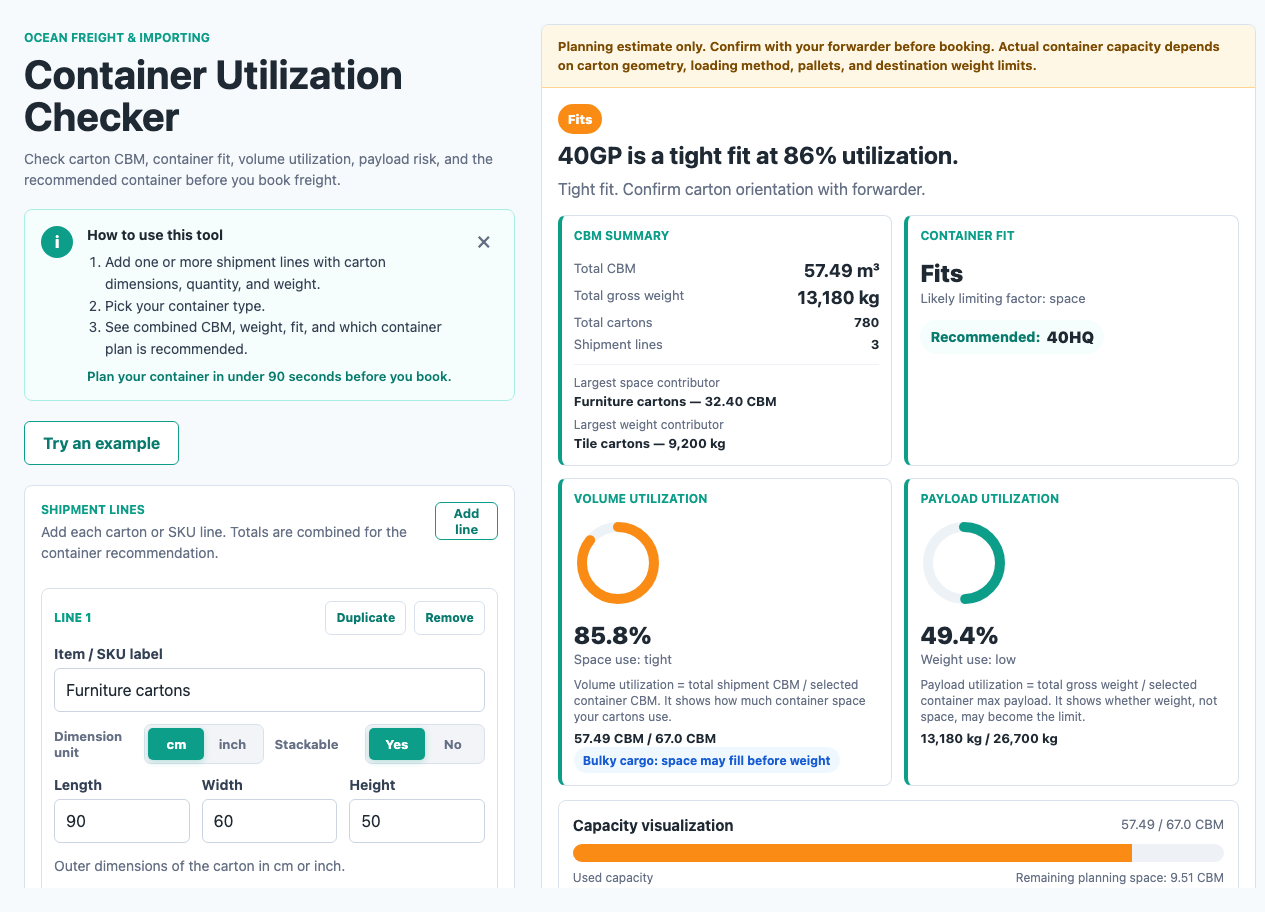
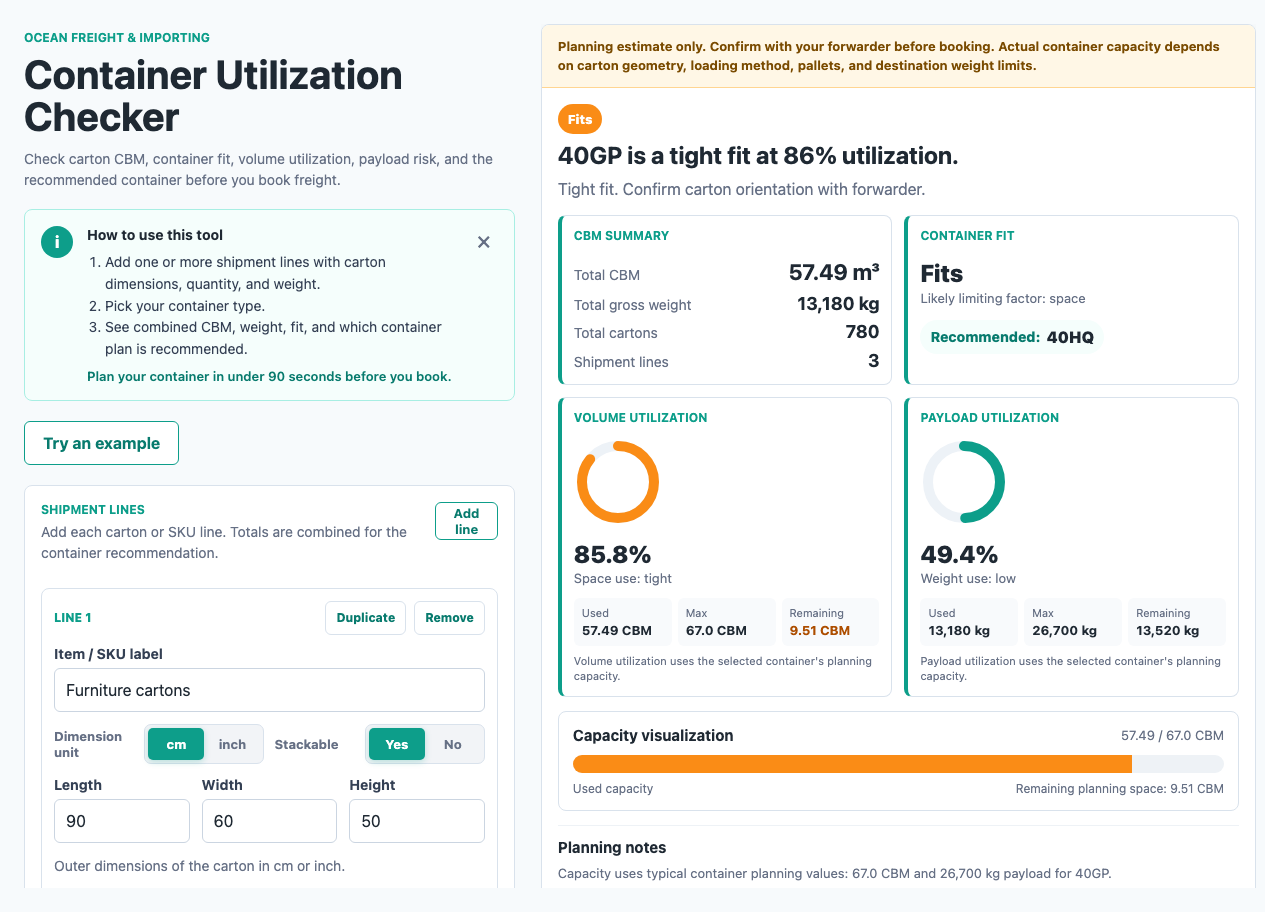
Polish v0.3 review dashboard

Changed region(s): [[0.4316, 0.2763, 0.9866, 0.9825], [0.6166, 0.2763, 0.7091, 0.3991], [0.7091, 0.4298, 0.8324, 0.4912]]

diff --git a/code/app.js b/code/app.js
@@ -10,7 +10,7 @@
   var ORDERED_CONTAINERS = ["20GP", "40GP", "40HQ"];
   var RULE_PRIORITY = ["R13", "R7", "R11", "R6", "R10", "R14", "R8", "R9", "R1", "R2", "R12", "R3", "R5", "R4"];
   var RULE_MESSAGES = {
-    R1: "Shipment is small for FCL. LCL is often cheaper — ask your forwarder.",
+    R1: "Likely LCL candidate: under 13 CBM and 3,500 kg. Ask your forwarder to compare LCL vs FCL.",
     R2: "Container is oversized. Consolidate or downsize.",
     R3: "Under-utilized. Consider smaller container or add SKUs.",
     R4: "Healthy planning range.",
@@ -410,10 +410,10 @@
 
     if (visibleRules.indexOf("R1") >= 0) {
       return {
-        badge: "Small Shipment",
+        badge: "LCL Candidate",
         tone: "warning",
-        headline: "Small shipment for FCL.",
-        action: "Small shipment — LCL likely cheaper."
+        headline: "Likely LCL candidate for FCL.",
+        action: "Under 13 CBM and 3,500 kg — LCL may be cheaper than booking a full container."
       };
     }
 
@@ -555,20 +555,34 @@
     ].join("");
   }
 
+  function renderCapacityFigures(kind, used, max, unit, tone) {
+    var remaining = Math.max(max - used, 0);
+    var usedText = unit === "kg" ? fmtInt(used) : fmt(used, 2);
+    var maxText = unit === "kg" ? fmtInt(max) : fmt(max, 1);
+    var remainingText = unit === "kg" ? fmtInt(remaining) : fmt(remaining, 2);
+    return [
+      '<div class="capacity-figures">',
+      '<div><span>Used</span><strong>' + usedText + " " + unit + "</strong></div>",
+      '<div><span>Max</span><strong>' + maxText + " " + unit + "</strong></div>",
+      '<div><span>Remaining</span><strong class="' + tone + '">' + remainingText + " " + unit + "</strong></div>",
+      "</div>",
+      '<p class="capacity-note">' + escapeHtml(kind) + " utilization uses the selected container's planning capacity.</p>"
+    ].join("");
+  }
+
   function renderMetricGrid(metrics, utilizationSuppressed) {
     var fitStatus = metrics.verdict.badge;
     var rec = metrics.targetRecommendedContainer || metrics.recommendedContainer || "Split shipment";
-    var tags = metrics.sanityTags.slice(0, 2).map(tagMarkup).join("");
     var recommendedMarkup = '<div class="recommendation-chip"><span>Recommended:</span><strong>' + escapeHtml(rec) + "</strong></div>";
     var limitingFactor = metrics.payloadUtil > metrics.volumeUtil ? "weight" : "space";
-    var volumeFormula = '<div class="utilization-copy"><span>Volume utilization = total shipment CBM / selected container CBM. It shows how much container space your cartons use.</span><strong>' + fmt(metrics.totalCbm, 2) + " CBM / " + fmt(metrics.container.volume, 1) + " CBM</strong></div>";
-    var payloadFormula = '<div class="utilization-copy"><span>Payload utilization = total gross weight / selected container max payload. It shows whether weight, not space, may become the limit.</span><strong>' + fmtInt(metrics.totalWeightKg) + " kg / " + fmtInt(metrics.container.payload) + " kg</strong></div>";
+    var volumeTone = metrics.volumeBand === "over" || metrics.volumeBand === "critical" ? "error" : metrics.volumeBand === "tight" ? "warning" : "";
+    var payloadTone = metrics.payloadBand === "over" || metrics.payloadBand === "critical" ? "error" : metrics.payloadBand === "tight" ? "warning" : "";
     return [
       '<section class="metric-grid" aria-label="Container result metrics">',
-      '<div class="metric-card summary-card"><div class="metric-head"><p class="metric-label">CBM Summary</p></div><div class="summary-stack primary-summary"><div><span>Total CBM</span><strong>' + fmt(metrics.totalCbm, 2) + ' m³</strong></div><div><span>Total gross weight</span><strong>' + fmtInt(metrics.totalWeightKg) + ' kg</strong></div><div><span>Total cartons</span><strong>' + fmtInt(metrics.totalCartons) + '</strong></div><div><span>Shipment lines</span><strong>' + fmtInt(metrics.lineCount) + "</strong></div></div>" + renderContributorInsights(metrics) + "</div>",
+      '<div class="metric-card summary-card"><div class="metric-head"><p class="metric-label">CBM Summary</p></div><div class="summary-stack primary-summary"><div><span>Total CBM</span><strong>' + fmt(metrics.totalCbm, 2) + ' m³</strong></div><div><span>Total gross weight</span><strong>' + fmtInt(metrics.totalWeightKg) + ' kg</strong></div><div><span>Total cartons</span><strong>' + fmtInt(metrics.totalCartons) + '</strong></div><div><span>Shipment lines</span><strong>' + fmtInt(metrics.lineCount) + "</strong></div></div></div>",
       '<div class="metric-card"><div class="metric-head"><p class="metric-label">Container Fit</p></div><div class="metric-value">' + escapeHtml(fitStatus) + '</div><div class="metric-sub">Likely limiting factor: ' + escapeHtml(limitingFactor) + "</div>" + recommendedMarkup + "</div>",
-      '<div class="metric-card"><div class="metric-head"><p class="metric-label">Volume Utilization</p></div>' + (utilizationSuppressed ? '<div class="metric-value">Blocked</div><div class="metric-sub">Dimension overflow</div>' : meterSvg(metrics.volumeUtil, metrics.volumeBand, "Volume utilization") + '<div class="metric-value">' + fmt(metrics.volumeUtil, 1) + '%</div><div class="metric-sub">Space use: ' + escapeHtml(metrics.volumeBand) + "</div>" + volumeFormula) + tags + "</div>",
-      '<div class="metric-card"><div class="metric-head"><p class="metric-label">Payload Utilization</p></div>' + meterSvg(metrics.payloadUtil, metrics.payloadBand, "Payload utilization") + '<div class="metric-value">' + fmt(metrics.payloadUtil, 1) + '%</div><div class="metric-sub">Weight use: ' + escapeHtml(metrics.payloadBand) + "</div>" + payloadFormula + "</div>",
+      '<div class="metric-card"><div class="metric-head"><p class="metric-label">Volume Utilization</p></div>' + (utilizationSuppressed ? '<div class="metric-value">Blocked</div><div class="metric-sub">Dimension overflow</div>' : meterSvg(metrics.volumeUtil, metrics.volumeBand, "Volume utilization") + '<div class="metric-value">' + fmt(metrics.volumeUtil, 1) + '%</div><div class="metric-sub">Space use: ' + escapeHtml(metrics.volumeBand) + "</div>" + renderCapacityFigures("Volume", metrics.totalCbm, metrics.container.volume, "CBM", volumeTone)) + "</div>",
+      '<div class="metric-card"><div class="metric-head"><p class="metric-label">Payload Utilization</p></div>' + meterSvg(metrics.payloadUtil, metrics.payloadBand, "Payload utilization") + '<div class="metric-value">' + fmt(metrics.payloadUtil, 1) + '%</div><div class="metric-sub">Weight use: ' + escapeHtml(metrics.payloadBand) + "</div>" + renderCapacityFigures("Payload", metrics.totalWeightKg, metrics.container.payload, "kg", payloadTone) + "</div>",
       "</section>"
     ].join("");
   }
@@ -583,26 +597,22 @@
     ].join("");
   }
 
-  function renderDetails(metrics) {
-    var lineRows = metrics.rows.map(function map(row) {
-      return '<div class="detail-row"><span>' + escapeHtml(row.label) + '</span><strong>' + fmt(row.cartonCbm, 3) + " CBM each · " + fmt(row.totalCbm, 2) + " CBM · " + fmtInt(row.totalWeightKg) + " kg</strong></div>";
-    }).join("");
+  function renderPlanningNotes(metrics) {
+    var tags = metrics.sanityTags.slice(0, 2).map(tagMarkup).join("");
     return [
-      '<div class="detail-grid">',
-      '<div class="detail-row"><span>Shipment lines counted</span><strong>' + fmtInt(metrics.lineCount) + "</strong></div>",
-      '<div class="detail-row"><span>Total CBM</span><strong>' + fmt(metrics.totalCbm, 2) + " m³</strong></div>",
-      '<div class="detail-row"><span>Total gross weight</span><strong>' + fmtInt(metrics.totalWeightKg) + " kg</strong></div>",
-      '<div class="detail-row"><span>Selected container max</span><strong>' + fmt(metrics.container.volume, 1) + " CBM / " + fmtInt(metrics.container.payload) + " kg</strong></div>",
-      '<div class="detail-row"><span>Container interior</span><strong>' + fmt(metrics.container.length, 3) + " × " + fmt(metrics.container.width, 3) + " × " + fmt(metrics.container.height, 3) + " m</strong></div>",
-      lineRows,
-      "</div>"
+      '<section class="planning-notes" aria-label="Planning notes">',
+      '<h3>Planning notes</h3>',
+      '<p>Capacity uses typical container planning values: ' + fmt(metrics.container.volume, 1) + " CBM and " + fmtInt(metrics.container.payload) + " kg payload for " + escapeHtml(metrics.container.type) + ".</p>",
+      '<p>LCL candidate is flagged only when the shipment is under 13 CBM and 3,500 kg.</p>',
+      tags ? '<div class="note-tags">' + tags + "</div>" : "",
+      renderContributorInsights(metrics),
+      "</section>"
     ].join("");
   }
 
   function renderResult(metrics) {
     var rootEl = document.getElementById("result-root");
     var utilizationSuppressed = metrics.visibleRules.some(function some(rule) { return rule.id === "R13"; });
-    var detailsOpen = window.matchMedia("(min-width: 768px)").matches ? " open" : "";
     var volumeFill = Math.min(metrics.volumeUtil, 100);
     var volumeTone = metrics.volumeBand === "over" || metrics.volumeBand === "critical" ? "error" : metrics.volumeBand === "tight" ? "warning" : "";
     rootEl.innerHTML = [
@@ -616,7 +626,7 @@
       "</section>",
       renderMetricGrid(metrics, utilizationSuppressed),
       utilizationSuppressed ? '<section class="chart-card"><p class="support-note">Utilization cannot be calculated — at least one carton dimension exceeds container interior.</p></section>' : renderChart(metrics, volumeFill, volumeTone),
-      '<details class="supporting-details"' + detailsOpen + '><summary>Show calculation details</summary>' + renderDetails(metrics) + "</details>",
+      renderPlanningNotes(metrics),
       '<p class="methodology">Container volumes and payload limits used in this tool are typical planning values from carrier equipment guides. They are not loading guarantees. Internal dimensions vary by carrier and container age.</p>',
       "</div>",
       "</article>"
@@ -698,7 +708,7 @@
       '<p class="helper">Outer dimensions of the carton in cm or inch.</p>',
       '<div class="line-grid quantity-weight">',
       lineFieldMarkup(line, "quantity", "Carton quantity", index, "numeric", "1"),
-      '<div class="field-group"><div class="line-unit-row"><span>Weight unit</span><div class="segmented" role="group" aria-label="Line ' + (index + 1) + ' weight unit"><button type="button" class="segment' + weightKgActive + '" data-line-weight-unit="kg">kg</button><button type="button" class="segment' + weightLbActive + '" data-line-weight-unit="lb">lb</button></div></div>' + lineFieldMarkup(line, "weight", "Gross weight per carton", index) + '<small class="helper"><strong>Gross weight, including packaging.</strong> Not net.</small></div>',
+      '<div class="field-group weight-field-group">' + lineFieldMarkup(line, "weight", "Gross weight per carton", index) + '<small class="helper"><strong>Gross weight, including packaging.</strong> Not net.</small><div class="line-unit-row compact-unit-row"><span>Weight unit</span><div class="segmented" role="group" aria-label="Line ' + (index + 1) + ' weight unit"><button type="button" class="segment' + weightKgActive + '" data-line-weight-unit="kg">kg</button><button type="button" class="segment' + weightLbActive + '" data-line-weight-unit="lb">lb</button></div></div></div>',
       "</div>",
       '<div class="row-summary" data-row-summary="' + escapeHtml(line.id) + '"></div>',
       "</article>"

diff --git a/code/styles.css b/code/styles.css
@@ -315,6 +315,12 @@ h1 {
   gap: 10px;
 }
 
+.field-group {
+  display: grid;
+  gap: 6px;
+  min-width: 0;
+}
+
 .line-unit-row,
 .line-stack-row {
   display: flex;
@@ -324,6 +330,10 @@ h1 {
   color: var(--muted);
   font-size: 13px;
   font-weight: 700;
+}
+
+.compact-unit-row {
+  margin-top: 4px;
 }
 
 .line-stack-row .segmented,
@@ -690,20 +700,6 @@ input:focus {
   font-size: 16px;
 }
 
-.utilization-copy {
-  display: grid;
-  gap: 4px;
-  margin-top: 8px;
-  color: var(--muted);
-  font-size: 12px;
-  line-height: 1.35;
-}
-
-.utilization-copy strong {
-  color: var(--ink);
-  font-size: 13px;
-}
-
 .circle-meter {
   width: 88px;
   height: 88px;
@@ -736,7 +732,7 @@ input:focus {
 
 .summary-stack {
   display: grid;
-  gap: 6px;
+  gap: 8px;
   margin-top: 8px;
 }
 
@@ -746,19 +742,21 @@ input:focus {
 
 .summary-stack div {
   display: flex;
+  align-items: baseline;
   justify-content: space-between;
   gap: 10px;
   color: var(--muted);
-  font-size: 13px;
+  font-size: 14px;
 }
 
 .summary-stack strong {
   color: var(--ink);
+  font-size: 18px;
+  line-height: 1.15;
 }
 
-.primary-summary div:first-child strong,
-.primary-summary div:nth-child(2) strong {
-  font-size: 18px;
+.primary-summary div:first-child strong {
+  font-size: 22px;
 }
 
 .chart-card {
@@ -769,7 +767,7 @@ input:focus {
 .contributor-list {
   display: grid;
   gap: 6px;
-  margin-top: 12px;
+  margin-top: 10px;
   border-top: 1px solid #eef2f6;
   padding-top: 10px;
 }
@@ -828,6 +826,72 @@ input:focus {
   margin-top: 8px;
   color: var(--muted);
   font-size: 12px;
+}
+
+.capacity-figures {
+  display: grid;
+  grid-template-columns: repeat(3, minmax(0, 1fr));
+  gap: 6px;
+  margin-top: 10px;
+}
+
+.capacity-figures div {
+  display: grid;
+  gap: 2px;
+  border-radius: 6px;
+  background: #f8fafc;
+  padding: 8px;
+}
+
+.capacity-figures span,
+.capacity-note {
+  color: var(--muted);
+  font-size: 11px;
+  line-height: 1.35;
+}
+
+.capacity-figures strong {
+  color: var(--ink);
+  font-size: 13px;
+  line-height: 1.2;
+}
+
+.capacity-figures strong.warning {
+  color: #ad4e00;
+}
+
+.capacity-figures strong.error {
+  color: #b42318;
+}
+
+.capacity-note {
+  margin: 8px 0 0;
+}
+
+.planning-notes {
+  display: grid;
+  gap: 8px;
+  margin-bottom: 14px;
+  border-top: 1px solid #eef2f6;
+  padding-top: 12px;
+}
+
+.planning-notes h3 {
+  margin: 0;
+  font-size: 15px;
+}
+
+.planning-notes p {
+  margin: 0;
+  color: var(--muted);
+  font-size: 13px;
+  line-height: 1.45;
+}
+
+.note-tags {
+  display: flex;
+  flex-wrap: wrap;
+  gap: 8px;
 }
 
 .supporting-details {
@@ -976,6 +1040,11 @@ input:focus {
     flex-direction: column;
   }
 
+  .compact-unit-row {
+    align-items: center;
+    flex-direction: row;
+  }
+
   .line-unit-row .segmented,
   .line-stack-row .segmented {
     width: 100%;
@@ -985,5 +1054,9 @@ input:focus {
   .chart-card,
   .supporting-details {
     padding: 12px;
+  }
+
+  .capacity-figures {
+    grid-template-columns: 1fr;
   }
 }

diff --git a/tests/run-stage7-ui.js b/tests/run-stage7-ui.js
@@ -20,8 +20,11 @@ const removedCopy = [
 ];
 
 const requiredCopy = [
-  "Volume utilization = total shipment CBM / selected container CBM. It shows how much container space your cartons use.",
-  "Payload utilization = total gross weight / selected container max payload. It shows whether weight, not space, may become the limit.",
+  "Capacity uses typical container planning values:",
+  "LCL candidate is flagged only when the shipment is under 13 CBM and 3,500 kg.",
+  "Used",
+  "Max",
+  "Remaining",
   "Total gross weight",
   "Likely limiting factor:",
   "Recommended:",
@@ -31,6 +34,7 @@ const requiredCopy = [
   "Dense cargo: payload may become the limit",
   "Shipment lines",
   "Total cartons",
+  "Planning notes",
   "Largest space contributor",
   "Largest weight contributor",
   "Row total CBM"

diff --git a/tests/run-ac-fixtures.js b/tests/run-ac-fixtures.js
@@ -49,7 +49,7 @@ const fixtures = [
   {
     id: "AC-Unit-1",
     input: { length: 24, width: 16, height: 12, quantity: 100, weight: 26, dimensionUnit: "in", weightUnit: "lb", containerType: "40GP", stackable: "yes" },
-    expect: { cartonCbm: 0.075, totalCbm: 7.55, totalWeightKg: 1179, rules: ["R1"], actionIncludes: ["Small shipment", "LCL likely cheaper"] }
+    expect: { cartonCbm: 0.075, totalCbm: 7.55, totalWeightKg: 1179, rules: ["R1"], actionIncludes: ["Under 13 CBM", "LCL may be cheaper"] }
   },
   {
     id: "AC-Multi-1",
